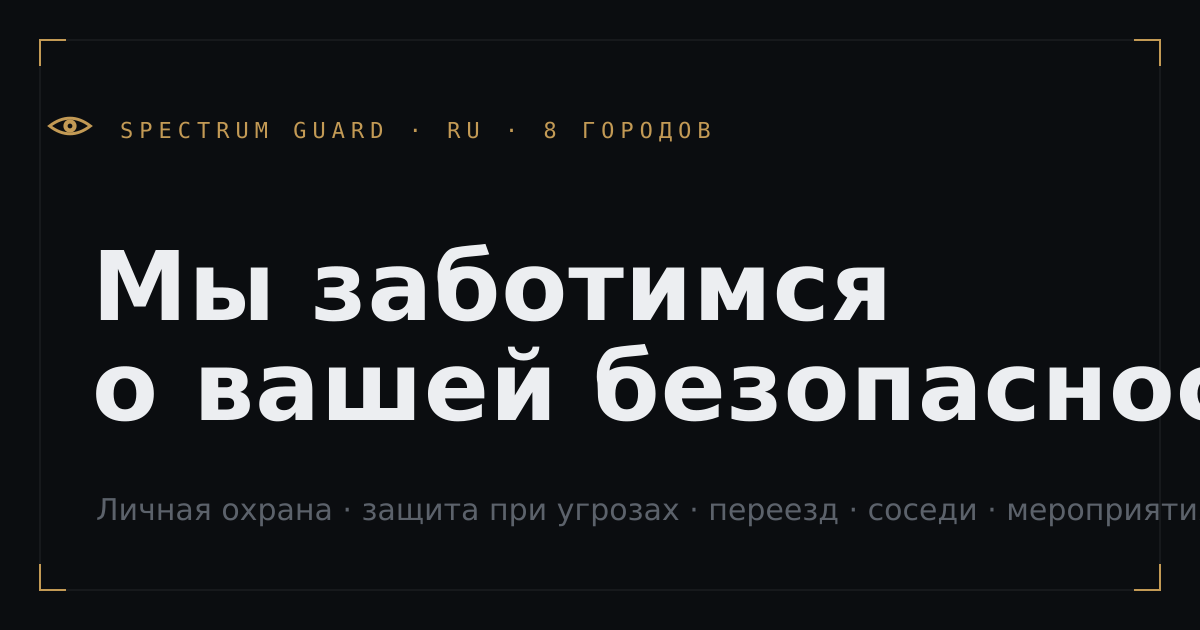
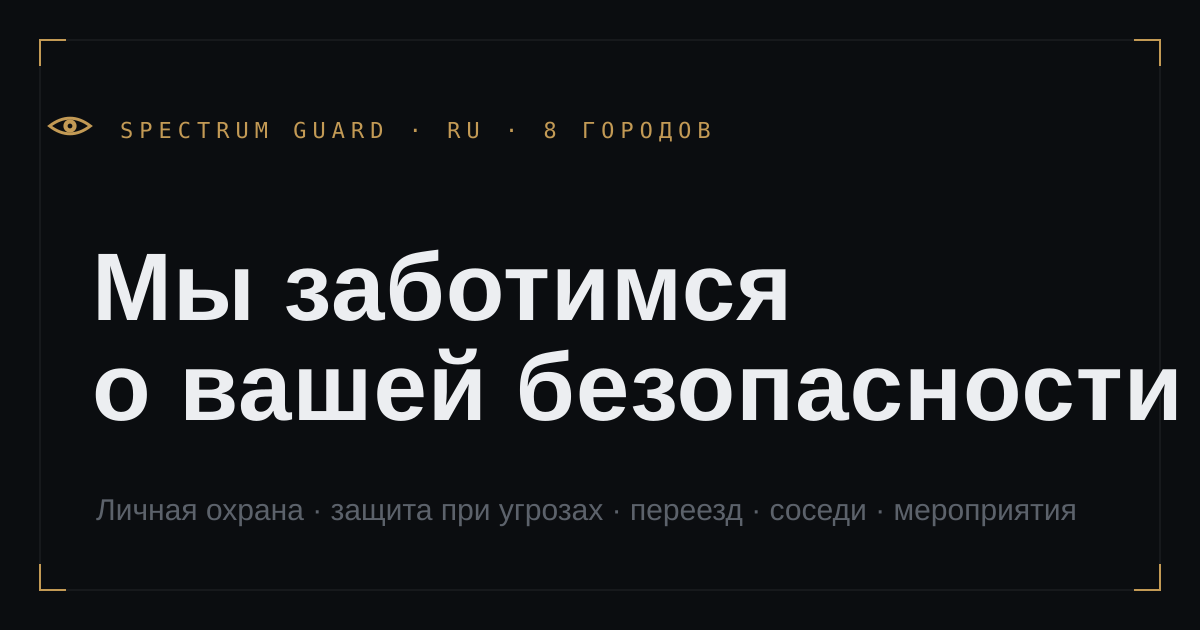
Remove public phone number (SHOW_PHONE flag); contact via form/Telegram/callback
Per client decision, the site no longer shows a phone number (avoids a placeholder/dead
number; matches the "we call you back" model). New SHOW_PHONE flag (false) gates the
number in header, footer, contacts page and CTA — flip to true when a real duty number
exists. Header/mobile menu now show a Telegram quick-link instead of the number.

Schema.org: Organization no longer carries a (placeholder) telephone; ContactPoint uses
email + Telegram (sameAs) so structured data stays honest. SEO/GEO/AEO unaffected — local
ranking comes from the off-site Yandex Business card, not the on-page number.

Three contact mechanics remain: main lead form, direct Telegram, callback request.
Tests: switched deprecated .type() to pressSequentially(). 75 pages, astro check clean.

Changed region(s): [[0.0925, 0.5429, 1.0, 0.6937], [0.0617, 0.3921, 0.74, 0.5127], [0.0617, 0.7841, 1.0, 0.8444]]

diff --git a/src/lib/schema.ts b/src/lib/schema.ts
@@ -3,7 +3,7 @@
  * Сущности не дублируем: Organization задаётся один раз через @id и переиспользуется
  * как provider в Service.
  */
-import { SITE_URL, SITE_NAME } from '../config';
+import { SITE_URL, SITE_NAME, SHOW_PHONE } from '../config';
 import { contacts } from '../data/contacts';
 import { cities } from '../data/cities';
 import type { City, Service, Faq } from '../data/types';
@@ -15,8 +15,23 @@ export function abs(path: string): string {
   return new URL(path, SITE_URL).href;
 }
 
-/** Organization — сайтово (в Base через @id), areaServed = все 9 городов. */
+/** Organization — сайтово (в Base через @id), areaServed = все 9 городов.
+ *  Телефон в разметку кладём только если он реально показан на сайте (SHOW_PHONE). */
 export function organizationSchema() {
+  // ContactPoint без телефона: контакт через e-mail и Telegram (sameAs).
+  const contactPoint = SHOW_PHONE
+    ? {
+        '@type': 'ContactPoint',
+        telephone: contacts.phone.tel,
+        contactType: 'customer service',
+        availableLanguage: ['Russian'],
+      }
+    : {
+        '@type': 'ContactPoint',
+        email: contacts.email,
+        contactType: 'customer service',
+        availableLanguage: ['Russian'],
+      };
   return {
     '@type': 'Organization',
     '@id': ORG_ID,
@@ -25,15 +40,10 @@ export function organizationSchema() {
     description:
       'Охранное агентство Spectrum Guard: личная охрана, защита при угрозах, охрана при ' +
       'переезде, помощь при конфликте с соседями и охрана мероприятий в 9 городах России.',
-    telephone: contacts.phone.tel,
+    ...(SHOW_PHONE ? { telephone: contacts.phone.tel } : {}),
     email: contacts.email,
     sameAs: [contacts.telegram.url],
-    contactPoint: {
-      '@type': 'ContactPoint',
-      telephone: contacts.phone.tel,
-      contactType: 'customer service',
-      availableLanguage: ['Russian'],
-    },
+    contactPoint,
     areaServed: cities.map((c) => ({ '@type': 'City', name: c.nom })),
   };
 }

diff --git a/tests/e2e.spec.ts b/tests/e2e.spec.ts
@@ -84,7 +84,7 @@ test.describe('Форма заявки', () => {
     await form.locator('input[name="name"]').fill('Тест');
     const contact = form.locator('[data-contact]');
     await contact.click();
-    await contact.type('[phone redacted]');
+    await contact.pressSequentially('[phone redacted]');
     await expect(contact).toHaveValue('[phone redacted]');
   });
 
@@ -92,7 +92,7 @@ test.describe('Форма заявки', () => {
     await page.goto('/kontakty/');
     const form = page.locator('form[data-lead-form]:has([data-method-phone])').first();
     const contact = form.locator('[data-contact]');
-    await contact.type('[phone redacted]');
+    await contact.pressSequentially('[phone redacted]');
     await form.locator('[data-method-tg]').check();
     await expect(contact).toHaveValue('');
     await expect(contact).toHaveAttribute('placeholder', /@username/);
@@ -102,7 +102,7 @@ test.describe('Форма заявки', () => {
     await page.goto('/kontakty/');
     const form = page.locator('form[data-lead-form]:has([data-method-phone])').first();
     await form.locator('input[name="name"]').fill('Тест');
-    await form.locator('[data-contact]').type('[phone redacted]');
+    await form.locator('[data-contact]').pressSequentially('[phone redacted]');
     // НЕ ставим галочку согласия
     await form.locator('button[type="submit"]').click();
     const consent = form.locator('input[name="consent"]');
@@ -114,7 +114,7 @@ test.describe('Форма заявки', () => {
     await page.goto('/kontakty/');
     const form = page.locator('form[data-lead-form]:has([data-method-phone])').first();
     await form.locator('input[name="name"]').fill('Тест');
-    await form.locator('[data-contact]').type('[phone redacted]');
+    await form.locator('[data-contact]').pressSequentially('[phone redacted]');
     await form.locator('input[name="consent"]').check();
     await form.locator('button[type="submit"]').click();
     // Бэкенда на preview нет → ожидаем тост (успех или ошибка доставки), но не зависание.

diff --git a/src/config.ts b/src/config.ts
@@ -8,6 +8,13 @@ export const SITE_NAME = 'Spectrum Guard';
 export const SITE_TAGLINE = 'Охрана и личная безопасность';
 
 /**
+ * Показывать ли публичный номер телефона. По решению заказчика номер не показываем —
+ * контакт через форму, Telegram и обратный звонок («перезвоним»). Появится реальный
+ * дежурный номер → ставим `true`, и номер вернётся в шапку/футер/контакты и Schema.org.
+ */
+export const SHOW_PHONE = false;
+
+/**
  * Трастовый блок (лицензия, реквизиты) — скрыт, пока нет данных от заказчика.
  * Включается переводом в `true`, когда реквизиты появятся. Нигде на сайте не
  * упоминаем, что их «пока нет» (см. README → Открытые TODO).